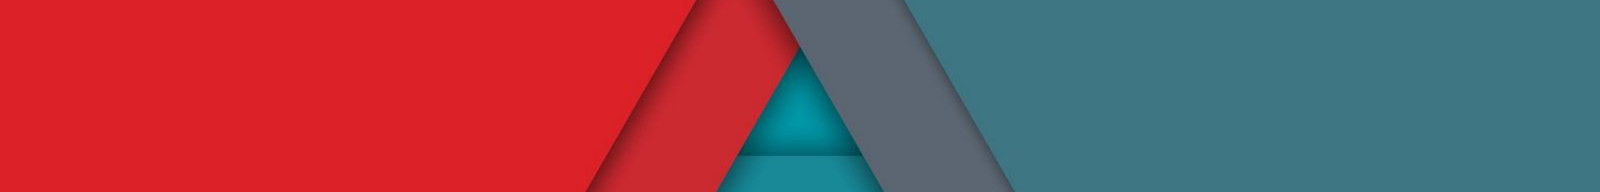
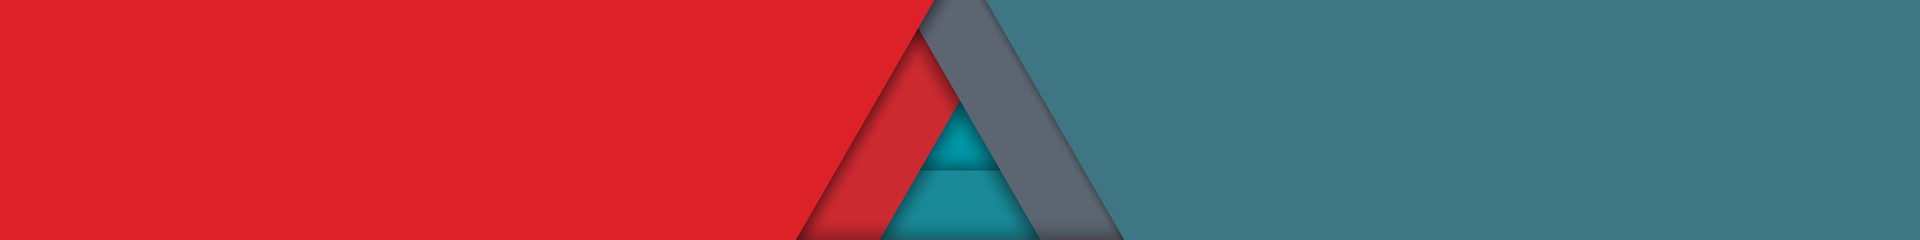
better background image

Changed region(s): [[0.3438, 0.0, 0.6562, 1.0]]

diff --git a/client/src/shared-styles.html b/client/src/shared-styles.html
@@ -7,11 +7,11 @@
                 --secondary-text-color:     #757575;
                 --disabled-text-color:      #9b9b9b;
                 --divider-color:            #BDBDBD;
-                --error-color:              #CB2A30;
+                --error-color:              #dc2128;
                 --dark-primary-color:       #325F6A;
                 --primary-color:            #3E7683;
-                --light-primary-color:      #C3D4D8;
-                --accent-color:             #CB2A30;
+                --light-primary-color:      #198997;
+                --accent-color:             #dc2128;
             }
             ::-webkit-scrollbar {
                 display: none;
@@ -23,7 +23,7 @@
                 outline: none;
             }
             a {
-                color: var(--primary-color);
+                color: var(--dark-primary-color);
             }
             paper-dialog {
                 --paper-dialog-title: {
